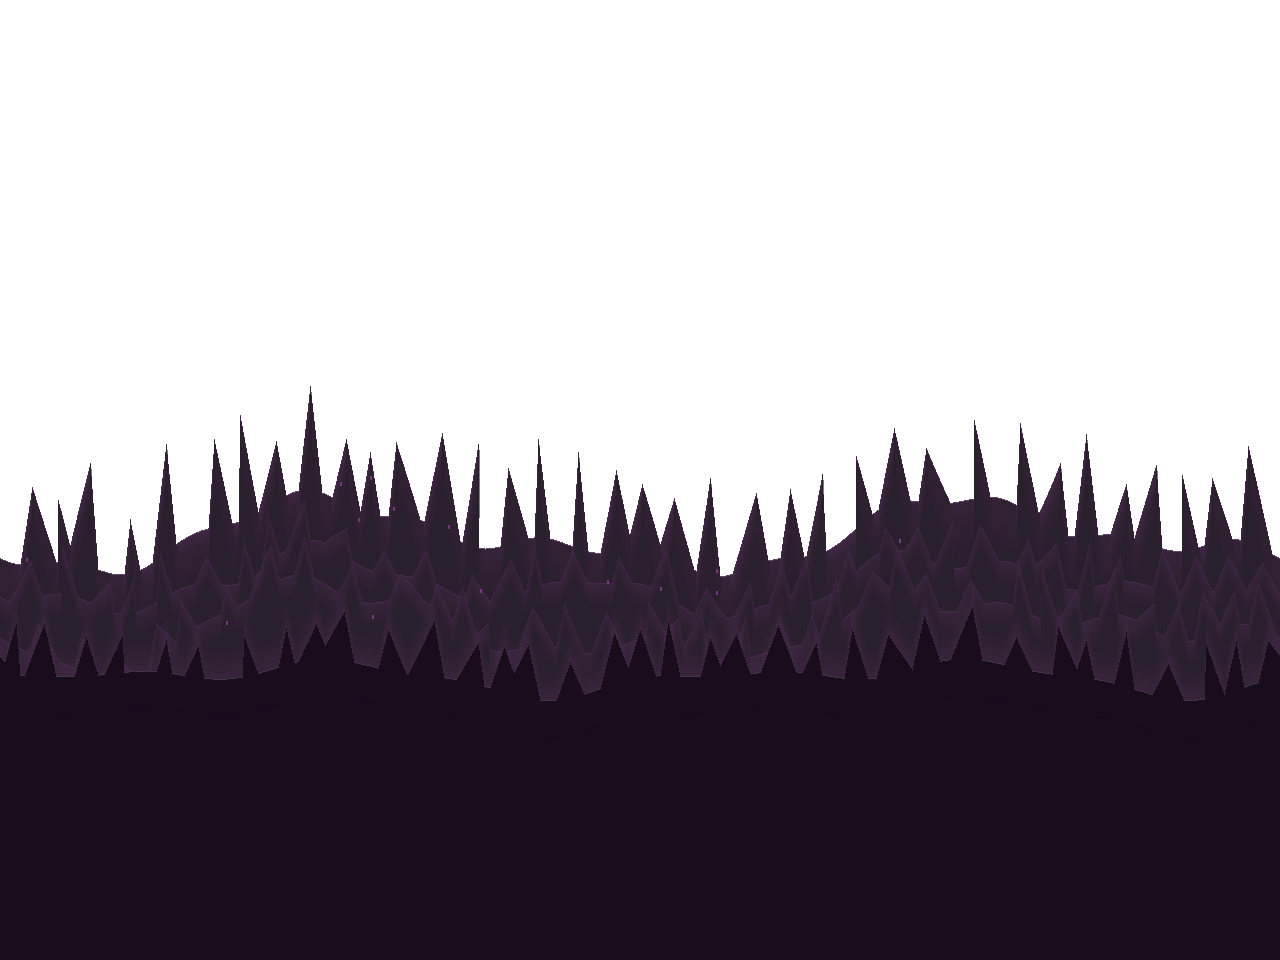
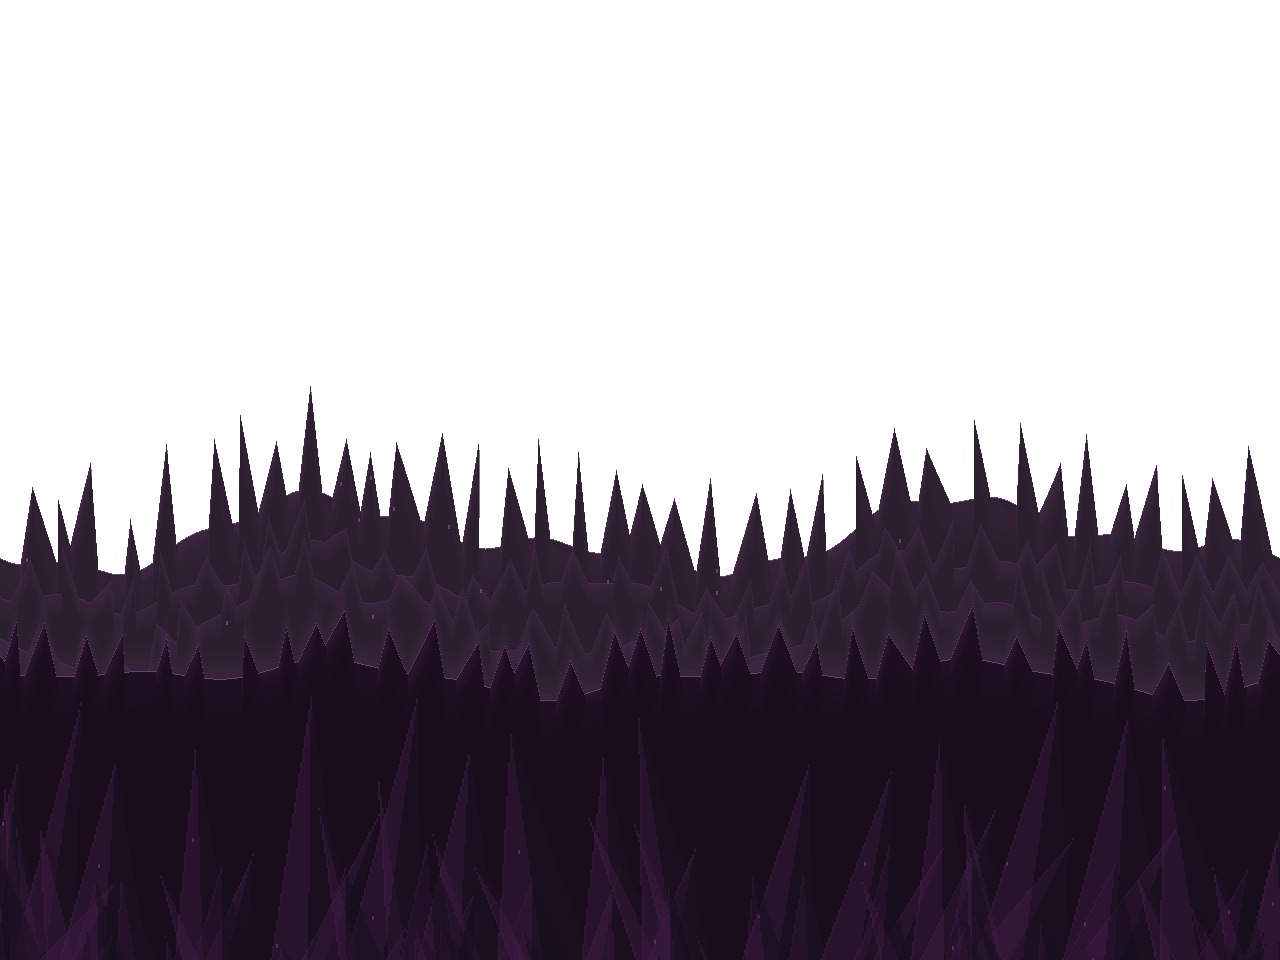
Pass 648: crystal grows through the halls' near plane (#732)
* Pass 648: crystal grows through the halls' near plane

The crystal halls' ridge near plane was one flat fill (its light was its own
color); it is lit by the far rim now, and two rows of faceted crystal masses
grow up through it (bible 12.124).

* Pass 648: the pass doc

---------

diff --git a/tools/art/tilegen.py b/tools/art/tilegen.py
@@ -4668,6 +4668,91 @@ def _ridge_detail(img, zone, far_h, near_tops, rng, houses=None, ground=None):
         placed += 1
 
 
+# The crystal halls' near plane (design bible 12.124, pass 648). The pass 645 grade read
+# the Evercrown's backdrop as a dead void of flat purple: under its shard crest the near
+# plane was one fill to the layer's foot, and its lights did not show, since its body is
+# the darkest step of the ramp and the plane's rim was that same step. The near plane is
+# now lit in the next step up, and two rows of great crystal masses grow up through it
+# from below, each a leader and lesser shards, lit on the west facet, dark on the east,
+# with a lit west edge and a few glints, the nearer row darker.
+NEAR_MASS_ROWS = (  # per row: the foot (canvas px below the near crest's base), height range, alpha of body, lit facet, edge, dark facet
+    {"foot": 150 * D, "tall": (105 * D, 150 * D), "half": (16, 26), "step": (30, 52), "body": 34, "lit": 72, "edge": 120, "dark": 70},
+    {"foot": 172 * D, "tall": (60 * D, 92 * D), "half": (18, 30), "step": (40, 70), "body": 16, "lit": 44, "edge": 84, "dark": 110},
+)
+NEAR_MASS_CLEAR = 8 * D   # a mass's tip stays this far under the near crest
+NEAR_GLINT_SHARE = 0.5    # the share of masses with a glint on their lit facet
+
+
+def _near_shard(img, fx, fy, half, length, ang, row, rim, seam, glint, tops, rng):
+    """One great shard of the near plane, rooted at fx, fy (canvas px) and pointing
+    along `ang` (radians from straight up, east positive): its west facet lit, its
+    east facet dark, its west edge lit, laid in D-pixel blocks over the plane only."""
+    ux, uy = math.sin(ang), -math.cos(ang)       # along the shard, foot to tip
+    px, py = -uy, ux                              # across it, west to east (for a shard pointing up)
+    tx, ty = fx + ux * length, fy + uy * length
+    cut = []
+    xs = [fx - px * half, fx + px * half, tx]
+    ys = [fy - py * half, fy + py * half, ty]
+    x0, x1 = int(min(xs)) // D * D, int(max(xs)) + D
+    y0, y1 = max(0, int(min(ys)) // D * D), min(BG_H, int(max(ys)) + D)
+    for by in range(y0, y1, D):
+        for bx in range(x0, x1, D):
+            cx, cy = bx + D / 2 - fx, by + D / 2 - fy
+            along = cx * ux + cy * uy
+            if not 0 <= along <= length:
+                continue
+            across = cx * px + cy * py
+            w = half * (1 - along / length)
+            if abs(across) > w:
+                continue
+            if by < tops[bx % BG_W] + NEAR_MASS_CLEAR:
+                continue
+            cut.append((bx, by, across, w))
+    for bx, by, across, w in cut:
+        name, alpha = (rim, row["lit"]) if across < 0 else (seam, row["dark"])
+        if across < 0 and across < -w + D:
+            alpha = row["edge"]                   # the lit west edge
+        for yy in range(by, by + D):
+            for xx in range(bx, bx + D):
+                if img.getpixel((xx % BG_W, yy))[3]:
+                    _over(img, xx, yy, rim, row["body"])
+                    _over(img, xx, yy, name, alpha)
+    if glint and cut and rng.random() < NEAR_GLINT_SHARE:
+        lit = [k for k in cut if k[2] < -k[3] * 0.3]
+        if lit:
+            bx, by, _, _ = lit[rng.randrange(len(lit))]
+            for yy in range(by, by + 2 * D):
+                for xx in range(bx, bx + D):
+                    _over(img, xx, yy, glint, 200)
+    return len(cut)
+
+
+def _near_crystal(img, near_tops, near_base, rim, seam, glint, rng):
+    """Two rows of great crystal masses through the crystal halls' near plane (12.124).
+    Returns each mass: its foot, lean, reach and how many blocks it laid."""
+    masses = []
+    for row in NEAR_MASS_ROWS:
+        x = rng.randint(0, 20) * D
+        while x < BG_W:
+            fy = near_base + row["foot"] + rng.randint(-6, 6) * D
+            lean = rng.uniform(-0.18, 0.18)
+            # Its tip stays under the near crest rather than being cut off by it.
+            room = (fy - near_tops[x % BG_W] - 2 * NEAR_MASS_CLEAR) / math.cos(lean)
+            reach = min(rng.randint(*row["tall"]), int(room))
+            half = rng.randint(*row["half"]) * D
+            mass = {"x": x, "foot": fy, "lean": lean, "reach": reach, "blocks": 0}
+            # The lesser shards first, fanned beside the leader, so it lies over them.
+            for _ in range(rng.randint(1, 3)):
+                f = lean + rng.choice((-1, 1)) * rng.uniform(0.2, 0.45)
+                at = x + rng.randint(-half // D, half // D) * D
+                mass["blocks"] += _near_shard(img, at, fy, half * rng.uniform(0.5, 0.75), reach * rng.uniform(0.45, 0.75),
+                                              f, row, rim, seam, None, near_tops, rng)
+            mass["blocks"] += _near_shard(img, x, fy, half, reach, lean, row, rim, seam, glint, near_tops, rng)
+            masses.append(mass)
+            x += rng.randint(*row["step"]) * D
+    return masses
+
+
 def ridge(zone):
     """The distant ridgeline silhouette for `zone` (design bible 12.12): the
     zone's far crest filled from the horizon down, over a transparent sky, so
@@ -4702,7 +4787,14 @@ def ridge(zone):
                 if under[3]:
                     img.putpixel((x, yy), blend(under, c(rim), alpha))
             y -= band
-    _ridge_plane(img, near, near_base, _ridge_shade(body), body, 255, faces, RIDGE_SKY_A[1] if formed else 0)
+    # A body at the bottom of its ramp has no darker step, so the near plane's light is
+    # the far plane's rim (12.124): until pass 648 the crystal halls' near plane was lit
+    # in its own fill and showed nothing.
+    near_body = _ridge_shade(body)
+    near_rim = rim if near_body == body else body
+    _ridge_plane(img, near, near_base, near_body, near_rim, 255, faces, RIDGE_SKY_A[1] if formed else 0)
+    if RIDGE_KIND[zone] == "shard":
+        _near_crystal(img, near_tops, near_base, near_rim, "night-0", RIDGE_LIGHT.get(zone), near_rng)
     if spires:
         # A near spire's west wall catches the light down to the ground it stands on.
         for x in range(BG_W):

diff --git a/tools/art/test_tilegen.py b/tools/art/test_tilegen.py
@@ -2393,5 +2393,59 @@ def test_vorrhallows_near_glass_grows_through_its_stone():
         assert far_seam >= 3, f"the growth at {rx},{ry} has no seam past its crust ({far_seam} px)"
 
 
+def _near_band(zone):
+    """The crystal hall's near plane below its crest: the ridge, the near crest's tops
+    and the band's rows (from the lowest crest top's clearance to the layer's foot)."""
+    import random
+    img = tg.ridge(zone)
+    rng = random.Random(sum(ord(ch) for ch in zone) + 2600)
+    near = [v * tg.RIDGE_NEAR_SCALE for v in tg._ridge_profile(tg.RIDGE_KIND[zone], rng)]
+    near_base = tg.RIDGE_BASE + tg.RIDGE_NEAR_DROP
+    tops = [near_base - int(round(v)) for v in near]
+    return img, tops, range(max(tops) + 20 * tg.D, tg.BG_H)
+
+
+def test_the_crystal_halls_near_plane_holds_crystal_masses():
+    # The pass 645 grade read the Evercrown's backdrop as a dead void of flat purple:
+    # its ridge's near plane was one fill from under its crest to the layer's foot, and
+    # its light was its own fill. Now it is lit a step up the ramp and great crystal
+    # masses grow up through it (bible 12.124, pass 648), each lit on its west facet and
+    # dark on its east. (No masses fails the first check; masses with no facets the
+    # third; the near plane lit in its own fill, the last.)
+    for zone in ("evercrown", "vorrhallow"):
+        img, tops, rows = _near_band(zone)
+        px = img.load()
+        fill = tg.c(tg._ridge_shade(tg.RIDGE_COLOR[zone][0]))[:3]
+        cells = [(x, y) for y in rows for x in range(0, tg.BG_W, tg.D)]
+        off = [p for p in cells if px[p][:3] != fill]
+        share = len(off) / len(cells)
+        assert 0.25 <= share <= 0.9, f"{zone}: {share:.2f} of the near plane's band differs from its fill"
+        # The forms reach into the band's top half, not only the layer's foot.
+        upper = [p for p in off if p[1] < rows.start + (rows.stop - rows.start) // 2]
+        assert len(upper) > len(off) * 0.15, f"{zone}: the masses keep to the foot ({len(upper)} of {len(off)})"
+        # Lit facets and dark ones: some of the forms well over the fill, and some (the
+        # east facets, laid in the night's darkest step) no lighter than it.
+        lum = lambda col: col[0] * 3 + col[1] * 6 + col[2]
+        lighter = sum(1 for p in off if lum(px[p]) > lum(fill) + 60)
+        darker = sum(1 for p in off if lum(px[p]) < lum(fill) + 20)
+        assert lighter > len(cells) * 0.05 and darker > len(cells) * 0.05, \
+            f"{zone}: lit {lighter}, dark {darker} of {len(cells)}"
+        # The near crest catches the light: just under it the plane is lighter than its fill.
+        lit = sum(1 for x in range(0, tg.BG_W, tg.D) if lum(px[x, tops[x] + 2 * tg.D]) > lum(fill) + 20)
+        assert lit > tg.BG_W // tg.D // 3, f"{zone}: the near crest is lit in only {lit} columns"
+    # Every mass's tip stays under the near crest: no mass is cut off by it.
+    import random
+    rng = random.Random(7)
+    from PIL import Image
+    img = Image.new("RGBA", (tg.BG_W, tg.BG_H), tg.c("crystal-0"))
+    tops = [tg.RIDGE_BASE + tg.RIDGE_NEAR_DROP + 60 * tg.D] * tg.BG_W  # a low crest, under the tallest reach
+    masses = tg._near_crystal(img, tops, tg.RIDGE_BASE + tg.RIDGE_NEAR_DROP, "crystal-1", "night-0", "crystal-2", rng)
+    assert len(masses) >= 20, f"only {len(masses)} masses"
+    for m in masses:
+        tip = m["foot"] - m["reach"] * math.cos(m["lean"])
+        assert tip >= tops[0] + tg.NEAR_MASS_CLEAR, f"a mass's tip ({tip:.0f}) rises into the crest ({tops[0]})"
+        assert m["blocks"] > 0
+
+
 if __name__ == "__main__":
     main()

diff --git a/docs/loop/pass-648.md b/docs/loop/pass-648.md
@@ -1,0 +1,81 @@
+# Pass 648: crystal grows through the halls' near plane
+
+Date: 2026-11-23. No new notes from Sean. From the queue, first item: the independent grade of
+pass 645 (5.2/10). Pass 647 took the grub burrows' half of "dead voids"; this pass takes the other
+half, "the Evercrown veins' flat purple". The PixelLab art loop stays gated on Sean (three guardian
+bases wait for his OK); no PixelLab generations or Autosprite credits were spent. README's playtest
+link already points at https://github.com/sagedragoon79/Yldenfall.
+
+## Audit
+
+In `evercrown/veins` the backdrop between the hanging tendrils and the floor, about a third of the
+frame, was one flat dark purple. It is the ridge layer's near plane (12.83): filled from under its
+crest to the layer's foot, with no detail of its own. Its lighting did not show either, for a reason
+only the two crystal halls share: their ridge body is the darkest step of its ramp (`crystal-0`,
+`sky-0`, 12.48), the near plane's fill is one step darker than the body (which stays the same at
+index 0), and its light is the body. Fill and light were one color, so the near crest's rim, sky
+light and lit faces drew nothing.
+
+## What changed
+
+Design bible 12.124, in `tools/art/tilegen.py`.
+
+- **The near plane's light.** Where the body has no darker step, the near plane is lit by the far
+  plane's rim, so its crest and faces show.
+- **Crystal masses** (`_near_crystal`, `_near_shard`, `NEAR_MASS_ROWS`). Two rows of great masses
+  grow up through the near plane from below the layer's foot: a leader and one to three lesser
+  shards fanned beside it. Each shard is lit on its west facet and dark (`night-0`) on its east,
+  with a lit west edge, in 2-pixel blocks; the nearer row is darker and broader; half the leaders
+  carry a glint. A tip is held under the near crest instead of being cut off by it.
+- Only the "shard" ridges (the Evercrown, Vorrhallow) change; the other ridges are byte-identical.
+
+## Checked by eye
+
+The ridge alone, then in `evercrown/veins` at 1x and 2x, `evercrown/threshold` and
+`vorrhallow/flooded_hall`. The first try (shards 7 to 12 blocks wide, leaning up to 0.28 rad)
+read as a field of grass blades; the masses are now about twice as broad and lean less. The second
+left a flat band under the crest; the masses now reach as tall as the crest allows. In the veins
+the old flat band is faint faceted crystal, receding behind the platforms; in the flooded hall the
+blue masses sit low behind the far pillars.
+
+## Tests
+
+`test_the_crystal_halls_near_plane_holds_crystal_masses` in `tools/art/test_tilegen.py` (113
+checks, all passed): in both halls the band under the near crest is 25% to 90% forms, they reach
+into its upper half, there are lit facets and dark ones, the near crest is lit, and no mass's tip
+rises into the crest.
+
+| Mutation | Result |
+| --- | --- |
+| no masses | fails (0.00 of the band differs from the fill) |
+| no facets (both sides lit) | fails (117 dark pixels) |
+| the near plane lit in its own fill | fails (62 lit pixels) |
+| no limit on a mass's reach | fails (a tip at 753 rises into the crest at 797) |
+
+## Full suite
+
+Full suite (`TEST_TIMEOUT=7200`): 37,116 checks, all passed.
+
+## Rubric (design bible 15.3)
+
+| Category | Weight | Score | Notes |
+| --- | --- | --- | --- |
+| Movement feel | 20 | 99 | Unchanged. |
+| Combat and enemies | 15 | 99 | Unchanged. |
+| World and level design | 15 | 99 | Unchanged. |
+| Art cohesion | 15 | 98 | The crystal halls' near backdrop is faceted crystal, not one flat fill. |
+| Bosses | 10 | 99 | Unchanged. |
+| Systems | 10 | 99 | Unchanged. |
+| Audio | 5 | 99 | Unchanged. |
+| Stability and performance | 5 | 99 | Unchanged (a baked picture). |
+| Story and world | 5 | 99 | Unchanged. |
+
+Weighted: 98.85.
+
+## Next
+
+From the pass 645 grade in its order: walls that end mid-air at the screen's edge; barcode stripes
+in the dirt tiles; copied hazards and cloned town towers; floating islands and chain platforms hung
+from nothing; the Spires' rain too heavy; an oversized minimap; the spark's size at this scale.
+Held as before: the Haar's render, the sword's flat bar, the hero's size; foes in three styles stays
+with the art loop. The next independent grade is due after pass 650.

diff --git a/docs/design-bible.md b/docs/design-bible.md
@@ -3170,6 +3170,15 @@ Every form is drawn in 2-pixel blocks, only where the shade's field is at least 
 
 Judged by eye at 1x and 2x in `heartwood/grub_burrows` (roots hanging into the dark over the tunnel), `evercrown/proving_scar` (violet cracks), `tower/old_flue` and `vorrhallow/waterfall_stair`. `tests/test_deep_shade.gd` holds it: `test_the_deepest_mass_holds_its_zones_forms` and `test_the_deep_forms_are_the_rooms_own_and_only_where_meant`.
 
+### 12.124 Crystal grows through the halls' near plane (pass 648)
+
+The grade of pass 645 named the Evercrown's "flat purple" a dead void. In a tall room such as `evercrown/veins` a band of the backdrop between the hanging tendrils and the floor was one value: the ridge's near plane (12.83), filled from under its crest to the layer's foot. Its lights did not show either. The two crystal halls' ridge body is the darkest step of its ramp (12.48), and the near plane takes its fill one step darker than that body and its light from the body itself, so in these two zones the fill and the light were the same color.
+
+- **The near plane's light.** Where the body has no darker step, the near plane is lit by the far plane's rim instead (`tilegen.py`, `ridge`), so its crest, its sky light and its lit west faces show.
+- **Crystal masses** (`_near_crystal`, `NEAR_MASS_ROWS`). Two rows of great crystal masses grow up through the near plane from below the layer's foot, each a leader and one to three lesser shards fanned beside it. Each shard is lit on its west facet and laid in the night's darkest step on its east, with a lit west edge, in 2-pixel blocks. The nearer row is darker and broader. A mass's tip stays under the near crest (`NEAR_MASS_CLEAR`) rather than being cut off by it, and half of the leaders carry a glint of the zone's crystal on the lit facet. Only the two crystal halls ("shard" ridges) have them; the other zones' near planes are unchanged.
+
+Judged by eye at 1x and 2x in `evercrown/veins`, `evercrown/threshold` and `vorrhallow/flooded_hall`. The first try drew narrow shards that read as a field of grass blades; the masses are now about twice as broad, with less lean. `test_the_crystal_halls_near_plane_holds_crystal_masses` in `tools/art/test_tilegen.py` holds it.
+
 ## 13. Asset Production Plan
 
 ### 13.1 Tools and when to use each
